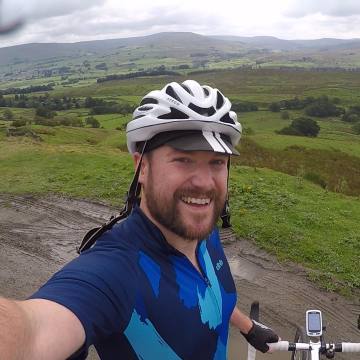
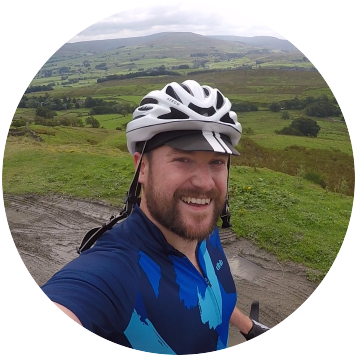
Make images round with Imagemagick instead of css

Changed region(s): [[0.0, 0.0, 1.0, 1.0]]

diff --git a/assets/css/style.css b/assets/css/style.css
@@ -130,8 +130,6 @@ footer p {
     padding: auto;
 }
 .pp_img_round {
-    border-radius: 50%;
-    width: 8em;
     margin: 0 0 0 auto;
 }
 .pp_link {
@@ -139,7 +137,6 @@ footer p {
     font-weight: bold;
 }
 .img_round {
-    border-radius: 50%;
     margin: 1.5em auto;
 }
 .youtube {

diff --git a/about.md b/about.md
@@ -9,16 +9,22 @@ Hi, I'm Dave, this is my blog.
 
 <img class="img_round" src="/assets/img/about.png">
 
-It exists because I wanted to play with static site generators. It's currently built with [cobalt.rs ↗](https://cobalt-org.github.io/) because it has *just* enough features for a small blog.
+It exists because I wanted to play with static site generators. It's currently built with [cobalt.rs ↗](https://cobalt-org.github.io/) because it has *just* enough features for a small blog and the documentation for [liquid ↗](https://shopify.github.io/liquid/) (the templating language it uses) didn't make me want to kill myself.
 
 All content is licensed under a [Creative Commons Attribution-ShareAlike 4.0 International License ↗](https://creativecommons.org/licenses/by-sa/4.0/) unless otherwise stated, and the source can be found [here ↗](https://github.com/ninjaguardsheep/itsdave).
 
-It's mainly going to be stuff about cycling, computers and cats. So, if none of those things float your boat, close the tab now.
+This site uses statically generated flat html5 and css files. It currently uses no javascript and does no user tracking of any kind (although I may occasionally embed content from unscrupulous third parties like youtube).
+
+It's mainly going to be stuff about cycling, computers and cats. So, if none of those things float your boat, maybe do something else with your afternoon.
 
 ---
 
 You can find me elsewhere on the internet:
 
++ I'm available to talk at on [Mastodon ↗](https://mastodon.social/web/accounts/1085543)
+
 + Cycling on [Strava ↗](https://www.strava.com/athletes/6001450)
 
 + Occasional boring cycling videos on [Youtube ↗](https://www.youtube.com/channel/UCIBF_vjZRcAmMdVKIFFIXDg)
+
++ In gopherspace! At the excellent circumlunar.space community [gopher ↗](gopher://republic.circumlunar.space:70/1/~itsdave), [web (via floodgap) ↗](https://gopher.floodgap.com/gopher/gw?a=gopher%3A%2F%2Frepublic.circumlunar.space%3A70%2F1%2F%7Eitsdave)
